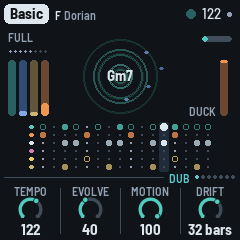
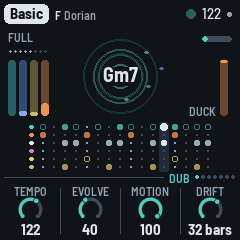
The chord's name bigger (a 20 px Bold face, FONT_C), on a dark backing so the rings pass behind it (dub hold's red included); the slots' count moved down; screenshots

Changed region(s): [[0.4083, 0.2625, 0.5833, 0.3792]]

diff --git a/tools/gen_font.py b/tools/gen_font.py
@@ -19,7 +19,7 @@ FONTS = Path(__file__).resolve().parents[1] / "assets" / "fonts"
 # (name, file, px, scale, pixel, first, last): pixel fonts are rendered without
 # anti-aliasing at their design size and enlarged by an integer factor
 # X0X: five roles, XS (grid labels, units, hints), S (body), B (headers, names, the selected
-# row), M (knob values) and L (the big readout). Each set gives them a face and a pixel size,
+# row), M (knob values), L (the big readout) and C (the chord's name, over the ripples). Each set gives them a face and a pixel size,
 # chosen so the line height stays near the layout's 12 / 16 / 24 / 32. X0X_FONTSET picks one.
 # A TTF entry "file.ttf@wght=600" sets a variable font's axis.
 FONTSETS = {
@@ -27,27 +27,32 @@ FONTSETS = {
                  ("S", "ter-u16n.bdf", 16, 1, True, 32, 126),
                  ("B", "ter-u16b.bdf", 16, 1, True, 32, 126),
                  ("M", "ter-u24b.bdf", 24, 1, True, 32, 95),
-                 ("L", "ter-u32b.bdf", 32, 1, True, 32, 95)],
+                 ("L", "ter-u32b.bdf", 32, 1, True, 32, 95),
+                 ("C", "ter-u24b.bdf", 24, 1, True, 32, 126)],
     "barlow": [("XS", "BarlowSemiCondensed-SemiBold.ttf", 12, 1, False, 32, 126),
                ("S", "BarlowSemiCondensed-Medium.ttf", 15, 1, False, 32, 126),
                ("B", "BarlowSemiCondensed-Bold.ttf", 15, 1, False, 32, 126),
                ("M", "BarlowSemiCondensed-SemiBold.ttf", 23, 1, False, 32, 95),
-               ("L", "BarlowSemiCondensed-Bold.ttf", 31, 1, False, 32, 126)],
+               ("L", "BarlowSemiCondensed-Bold.ttf", 31, 1, False, 32, 126),
+               ("C", "BarlowSemiCondensed-Bold.ttf", 20, 1, False, 32, 126)],
     "inter": [("XS", "Inter[opsz,wght].ttf@wght=600", 11, 1, False, 32, 126),
               ("S", "Inter[opsz,wght].ttf@wght=500", 14, 1, False, 32, 126),
               ("B", "Inter[opsz,wght].ttf@wght=700", 14, 1, False, 32, 126),
               ("M", "Inter[opsz,wght].ttf@wght=650", 21, 1, False, 32, 95),
-              ("L", "Inter[opsz,wght].ttf@wght=700", 29, 1, False, 32, 95)],
+              ("L", "Inter[opsz,wght].ttf@wght=700", 29, 1, False, 32, 95),
+              ("C", "Inter[opsz,wght].ttf@wght=700", 19, 1, False, 32, 126)],
     "rajdhani": [("XS", "Rajdhani-Bold.ttf", 14, 1, False, 32, 126),
                  ("S", "Rajdhani-SemiBold.ttf", 17, 1, False, 32, 126),
                  ("B", "Rajdhani-Bold.ttf", 17, 1, False, 32, 126),
                  ("M", "Rajdhani-Bold.ttf", 26, 1, False, 32, 95),
-                 ("L", "Rajdhani-Bold.ttf", 35, 1, False, 32, 95)],
+                 ("L", "Rajdhani-Bold.ttf", 35, 1, False, 32, 95),
+                 ("C", "Rajdhani-Bold.ttf", 23, 1, False, 32, 126)],
     "chakra": [("XS", "ChakraPetch-SemiBold.ttf", 11, 1, False, 32, 126),
                ("S", "ChakraPetch-Medium.ttf", 14, 1, False, 32, 126),
                ("B", "ChakraPetch-Bold.ttf", 14, 1, False, 32, 126),
                ("M", "ChakraPetch-SemiBold.ttf", 21, 1, False, 32, 95),
-               ("L", "ChakraPetch-Bold.ttf", 29, 1, False, 32, 95)],
+               ("L", "ChakraPetch-Bold.ttf", 29, 1, False, 32, 95),
+               ("C", "ChakraPetch-Bold.ttf", 19, 1, False, 32, 126)],
 }
 import os  # noqa: E402
 FONTSET = os.environ.get("X0X_FONTSET", "barlow")    # the others need X0X_FONT_DIRS (not in assets/)

diff --git a/firmware/src/app/ui.c b/firmware/src/app/ui.c
@@ -1830,14 +1830,21 @@ static void draw_main(void)
     } else if (parent_of(ui.view) < 0) {         /* the chord, in the middle */
         char nm[16];
         chord_now(nm);
-        if (text_w(&FONT_B, nm) <= 44)
+        if (text_w(&FONT_C, nm) <= 66) {         /* (the bigger face, the rings behind it; a long name, smaller) */
+            int32_t w = text_w(&FONT_C, nm);
+            cv_round(CX - w / 2 - 3, CY - 9, w + 6, 19, 5, K_BG);
+            text_c(CX, CY - 11, &FONT_C, nm, en_frozen ? K_FROST : K_TEXT);
+        } else if (text_w(&FONT_B, nm) <= 72) {
+            int32_t w = text_w(&FONT_B, nm);
+            cv_round(CX - w / 2 - 3, CY - 7, w + 6, 15, 4, K_BG);
             text_c(CX, CY - 8, &FONT_B, nm, en_frozen ? K_FROST : K_TEXT);
+        }
         else
             text_c(CX, CY - 6, &FONT_XS, nm, en_frozen ? K_FROST : K_TEXT);
         if (proj.par[P_PMODE] && en_prog_pos >= 0 && prog_count()) {   /* the slots: where they are ("2/4") */
             char t[8];
             t[0] = (char)('1' + en_prog_pos), t[1] = '/', t[2] = (char)('0' + prog_count()), t[3] = 0;
-            text_c(CX, CY + 8, &FONT_XS, t, K_DIM);
+            text_c(CX, CY + 11, &FONT_XS, t, K_DIM);
         }
     }
     {   /* top left: the phrase's section and its eight bars; under it, the mode the keys are in */
